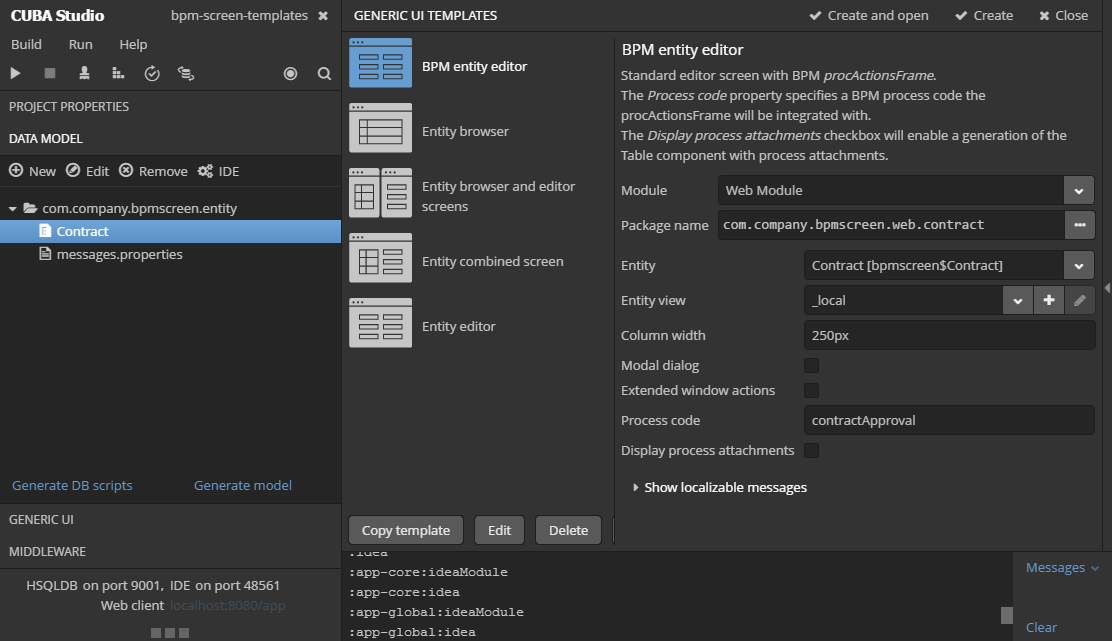
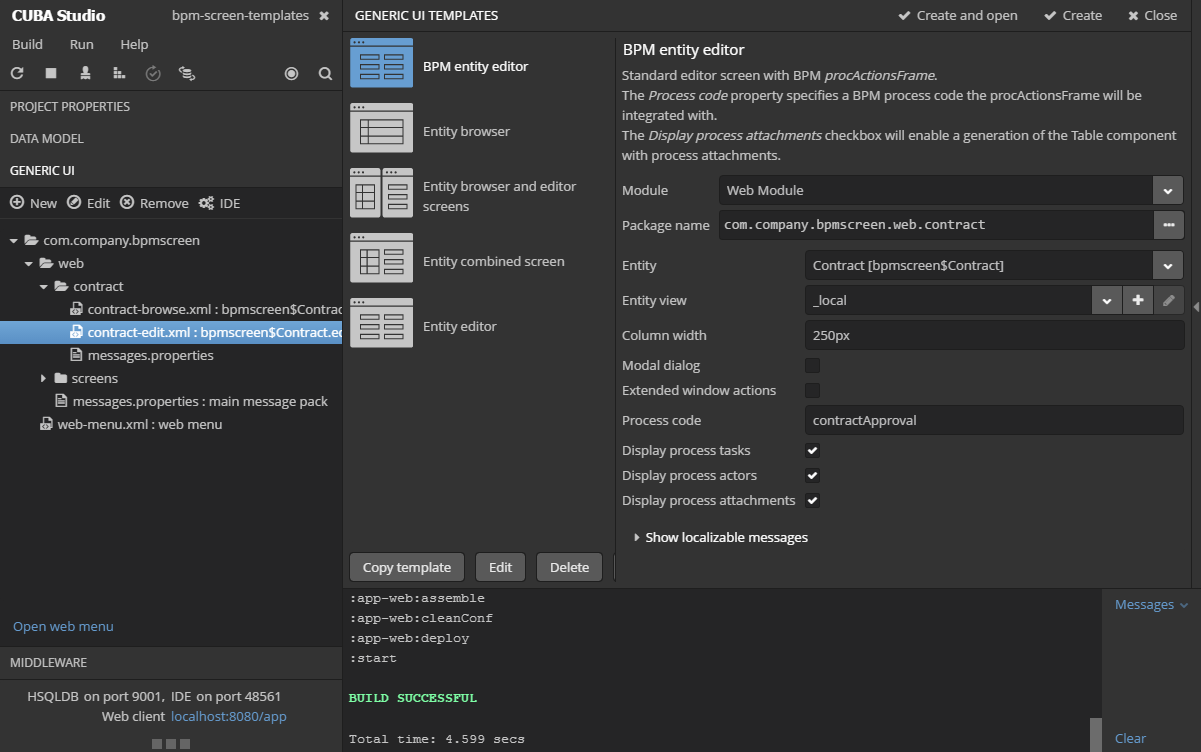
template now allows to display process tasks and process actors

diff --git a/studio-templates/screen/bpm-editor-screen/controller.java b/studio-templates/screen/bpm-editor-screen/controller.java
@@ -10,10 +10,11 @@ if (copyright) {
 
 import com.haulmont.cuba.gui.components.AbstractEditor;
 import ${entity.fqn};
-<%if (displayProcessAttachments) {%>
-import com.haulmont.bpm.entity.ProcAttachment;
-import com.haulmont.cuba.gui.app.core.file.FileDownloadHelper;
-import com.haulmont.cuba.gui.components.Table;<%}%>
+import com.haulmont.bpm.entity.ProcInstance;
+<%if (displayProcessAttachments) {%>import com.haulmont.bpm.gui.procattachment.ProcAttachmentsFrame;<%}%>
+<%if (displayProcessActors) {%>import com.haulmont.bpm.gui.procactor.ProcActorsFrame;<%}%>
+<%if (displayProcessTasks) {%>import com.haulmont.bpm.gui.proctask.ProcTasksFrame;<%}%>
+
 import com.haulmont.bpm.gui.procactions.ProcActionsFrame;
 import javax.inject.Inject;
 <%if (classComment) {%>
@@ -24,14 +25,34 @@ public class ${controllerName} extends AbstractEditor<${entity.className}> {
 
     @Inject
     private ProcActionsFrame procActionsFrame;
-<%if (displayProcessAttachments) {%>
-    @Inject
-    private Table<ProcAttachment> attachmentsTable;<%}%>
+
+    <%if (displayProcessTasks) {%>@Inject
+    protected ProcTasksFrame procTasksFrame;
+    <%}%>
+
+    <%if (displayProcessActors) {%>@Inject
+    protected ProcActorsFrame procActorsFrame;
+    <%}%>
+
+    <%if (displayProcessAttachments) {%>@Inject
+    protected ProcAttachmentsFrame procAttachmentsFrame;
+    <%}%>
 
     @Override
     protected void postInit() {
-        <%if (displayProcessAttachments) {%>FileDownloadHelper.initGeneratedColumn(attachmentsTable, "file");<%}%>
         initProcActionsFrame();
+
+        ProcInstance procInstance = procActionsFrame.getProcInstance();
+        if (procInstance != null) {<%if (displayProcessTasks) {%>
+            procTasksFrame.setProcInstance(procInstance);
+            procTasksFrame.refresh();<%}%>
+<%if (displayProcessActors) {%>
+            procActorsFrame.setProcInstance(procInstance);
+            procActorsFrame.refresh();<%}%>
+<%if (displayProcessAttachments) {%>
+            procAttachmentsFrame.setProcInstance(procInstance);
+            procAttachmentsFrame.refresh();<%}%>
+        }
     }
 
     private void initProcActionsFrame() {

diff --git a/modules/web/src/com/company/bpmscreen/web/contract/ContractEdit.java b/modules/web/src/com/company/bpmscreen/web/contract/ContractEdit.java
@@ -2,27 +2,48 @@ package com.company.bpmscreen.web.contract;
 
 import com.haulmont.cuba.gui.components.AbstractEditor;
 import com.company.bpmscreen.entity.Contract;
+import com.haulmont.bpm.entity.ProcInstance;
+import com.haulmont.bpm.gui.procattachment.ProcAttachmentsFrame;
+import com.haulmont.bpm.gui.procactor.ProcActorsFrame;
+import com.haulmont.bpm.gui.proctask.ProcTasksFrame;
 
-import com.haulmont.bpm.entity.ProcAttachment;
-import com.haulmont.cuba.gui.app.core.file.FileDownloadHelper;
-import com.haulmont.cuba.gui.components.Table;
 import com.haulmont.bpm.gui.procactions.ProcActionsFrame;
 import javax.inject.Inject;
 
 public class ContractEdit extends AbstractEditor<Contract> {
 
-    private static final String PROCESS_CODE = "aaa";
+    private static final String PROCESS_CODE = "contractApproval";
 
     @Inject
     private ProcActionsFrame procActionsFrame;
 
     @Inject
-    private Table<ProcAttachment> attachmentsTable;
+    protected ProcTasksFrame procTasksFrame;
+    
+
+    @Inject
+    protected ProcActorsFrame procActorsFrame;
+    
+
+    @Inject
+    protected ProcAttachmentsFrame procAttachmentsFrame;
+    
 
     @Override
     protected void postInit() {
-        FileDownloadHelper.initGeneratedColumn(attachmentsTable, "file");
         initProcActionsFrame();
+
+        ProcInstance procInstance = procActionsFrame.getProcInstance();
+        if (procInstance != null) {
+            procTasksFrame.setProcInstance(procInstance);
+            procTasksFrame.refresh();
+
+            procActorsFrame.setProcInstance(procInstance);
+            procActorsFrame.refresh();
+
+            procAttachmentsFrame.setProcInstance(procInstance);
+            procAttachmentsFrame.refresh();
+        }
     }
 
     private void initProcActionsFrame() {

diff --git a/README.md b/README.md
@@ -8,11 +8,19 @@ The **BPM entity editor** template is used for creation of entity editor that ha
 
 ![BPM entity editor template](https://github.com/gorbunkov/bpm-screen-templates/blob/master/screenshots/bpm-editor-studio-template.png)
 
+The **Display process tasks** checkbox tells whether a component for displaying a list process tasks with their owners, outcomes and comments should be added to the entity editor.
+
+The **Display process actors** checkbox tells whether a component for displaying a list process actors should be added to the entity editor.
+
 The **Display process attachments** checkbox tells whether a component for displaying a list process attachments should be added to the entity editor.
+
+The source code of the template is available in this [folder](https://github.com/gorbunkov/bpm-screen-templates/tree/master/studio-templates/screen/bpm-editor-screen)
 
 ## BPM Process Form Template
 
 The **BPM process form template** creates a skeleton for the process form frame. To make the form available for the process modeler, it should be registered as mentioned in the [documentation](https://doc.cuba-platform.com/bpm-6.7/bpm.html#process_forms)
+
+The source code of the template is available in this [folder](https://github.com/gorbunkov/bpm-screen-templates/tree/master/studio-templates/screen/bpm-process-form)
 
 
 
